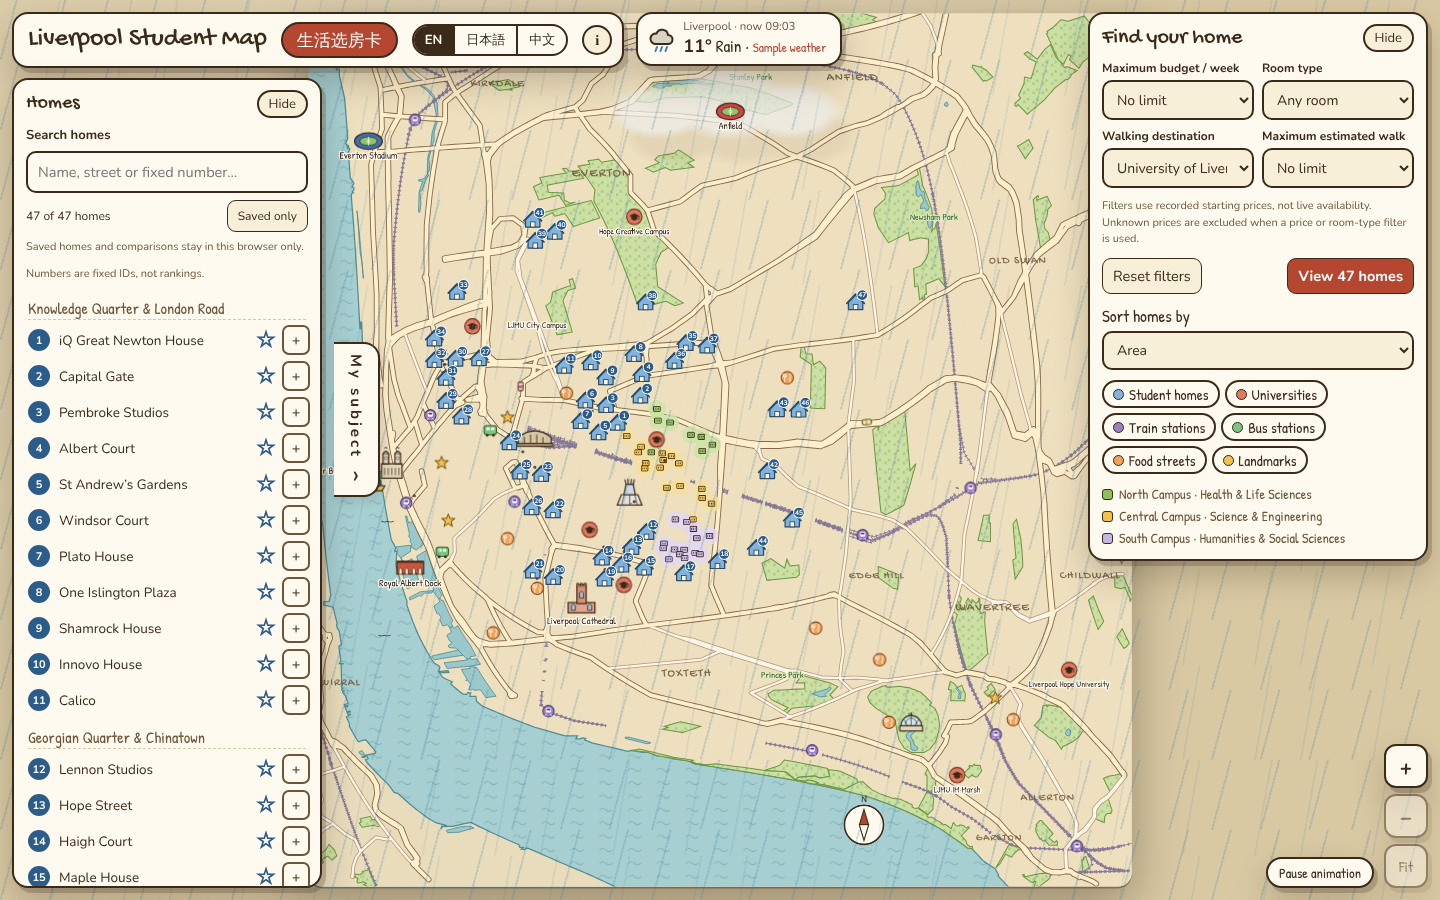
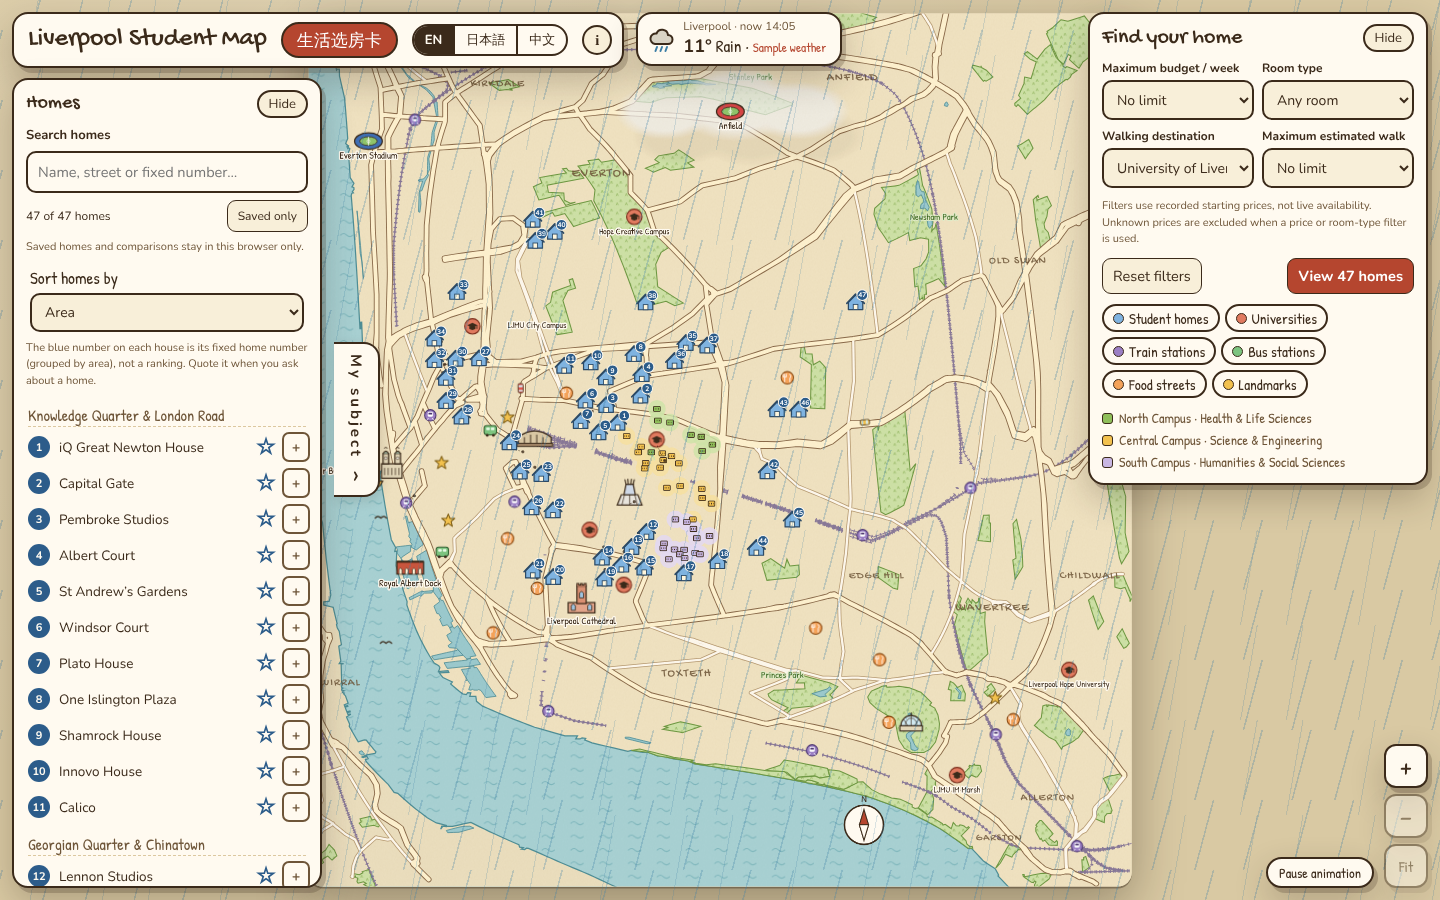
Refresh guide screenshots: compare, sorting, iPad and iPhone Duo
Claude-Session: https://claude.ai/code/session_016rLbkgUbc7FiiCcPmh6SN9

diff --git a/GUIDE-EN.html b/GUIDE-EN.html
@@ -29,7 +29,7 @@ figure img { width: 100%; height: 200px; object-fit: cover; object-position: top
 figcaption { font-size: 13px; color: var(--soft); }
 </style></head><body><main>
 <h1>Liverpool Student Map: Product and Demo Guide</h1>
-<p>Version: 22 October 2026 · Branch <code>claude/serene-faraday-1ktbef</code></p>
+<p>Version: 22 October 2026 (updated: compare, sorting, iPad and iPhone Duo) · Branch <code>claude/serene-faraday-1ktbef</code></p>
 <p>Liverpool Student Map helps students from Singapore, China and Japan choose student housing in Liverpool before they arrive. The website shows 47 student homes on a hand-drawn map. When a student wants help, one tap puts them in touch with a booking expert team through a WhatsApp group (Singapore and English speakers) or a WeChat group (China).</p>
 <p>The product does three jobs only:</p>
 <ol>
@@ -549,6 +549,18 @@ node web-original/consult-server/server.js
 <td><code>16-two-sided-walkthrough.png</code></td>
 <td>Student site and expert console side by side</td>
 </tr>
+<tr>
+<td><code>17-sorted-by-price.png</code></td>
+<td>Home list sorted by price, with gold top-3 tags on the map</td>
+</tr>
+<tr>
+<td><code>18-ipad-landscape.png</code>, <code>19-ipad-portrait.png</code></td>
+<td>iPad in landscape (filters folded) and portrait (drawers)</td>
+</tr>
+<tr>
+<td><code>20-iphone-duo-inner.png</code>, <code>21-iphone-duo-split-view.png</code></td>
+<td>iPhone Duo inner screen and Split View</td>
+</tr>
 </tbody>
 </table>
 <p>The screenshots in sections 5 and 7 come from real-mode runs, with the student on a phone and the expert on a laptop.</p>
@@ -573,5 +585,10 @@ node web-original/consult-server/server.js
 <figure><a href="docs/screenshots/13b-share-card-image.png"><img src="docs/screenshots/13b-share-card-image.png" alt="Share card maker and the image it makes" loading="lazy"></a><figcaption><code>13b-share-card-image.png</code> Share card maker and the image it makes</figcaption></figure>
 <figure><a href="docs/screenshots/14-weather.png"><img src="docs/screenshots/14-weather.png" alt="Live Liverpool weather (sample in screenshots)" loading="lazy"></a><figcaption><code>14-weather.png</code> Live Liverpool weather (sample in screenshots)</figcaption></figure>
 <figure><a href="docs/screenshots/15-personality-quiz.png"><img src="docs/screenshots/15-personality-quiz.png" alt="Study-buddy personality quiz" loading="lazy"></a><figcaption><code>15-personality-quiz.png</code> Study-buddy personality quiz</figcaption></figure>
-<figure><a href="docs/screenshots/16-two-sided-walkthrough.png"><img src="docs/screenshots/16-two-sided-walkthrough.png" alt="Student site and expert console side by side" loading="lazy"></a><figcaption><code>16-two-sided-walkthrough.png</code> Student site and expert console side by side</figcaption></figure></div>
+<figure><a href="docs/screenshots/16-two-sided-walkthrough.png"><img src="docs/screenshots/16-two-sided-walkthrough.png" alt="Student site and expert console side by side" loading="lazy"></a><figcaption><code>16-two-sided-walkthrough.png</code> Student site and expert console side by side</figcaption></figure>
+<figure><a href="docs/screenshots/17-sorted-by-price.png"><img src="docs/screenshots/17-sorted-by-price.png" alt="Home list sorted by price, with gold top-3 tags on the map" loading="lazy"></a><figcaption><code>17-sorted-by-price.png</code> Home list sorted by price, with gold top-3 tags on the map</figcaption></figure>
+<figure><a href="docs/screenshots/18-ipad-landscape.png"><img src="docs/screenshots/18-ipad-landscape.png" alt="iPad in landscape (filters folded) and portrait (drawers)" loading="lazy"></a><figcaption><code>18-ipad-landscape.png</code> iPad in landscape (filters folded) and portrait (drawers)</figcaption></figure>
+<figure><a href="docs/screenshots/19-ipad-portrait.png"><img src="docs/screenshots/19-ipad-portrait.png" alt="iPad in landscape (filters folded) and portrait (drawers)" loading="lazy"></a><figcaption><code>19-ipad-portrait.png</code> iPad in landscape (filters folded) and portrait (drawers)</figcaption></figure>
+<figure><a href="docs/screenshots/20-iphone-duo-inner.png"><img src="docs/screenshots/20-iphone-duo-inner.png" alt="iPhone Duo inner screen and Split View" loading="lazy"></a><figcaption><code>20-iphone-duo-inner.png</code> iPhone Duo inner screen and Split View</figcaption></figure>
+<figure><a href="docs/screenshots/21-iphone-duo-split-view.png"><img src="docs/screenshots/21-iphone-duo-split-view.png" alt="iPhone Duo inner screen and Split View" loading="lazy"></a><figcaption><code>21-iphone-duo-split-view.png</code> iPhone Duo inner screen and Split View</figcaption></figure></div>
 </main></body></html>

diff --git a/GUIDE-EN.md b/GUIDE-EN.md
@@ -1,6 +1,6 @@
 # Liverpool Student Map: Product and Demo Guide
 
-Version: 22 October 2026 · Branch `claude/serene-faraday-1ktbef`
+Version: 22 October 2026 (updated: compare, sorting, iPad and iPhone Duo) · Branch `claude/serene-faraday-1ktbef`
 
 Liverpool Student Map helps students from Singapore, China and Japan choose student housing in Liverpool before they arrive. The website shows 47 student homes on a hand-drawn map. When a student wants help, one tap puts them in touch with a booking expert team through a WhatsApp group (Singapore and English speakers) or a WeChat group (China).
 
@@ -265,5 +265,8 @@ Sources: listings and photos from our partner AmberStudent (collected 21 October
 | `14-weather.png` | Live Liverpool weather (sample in screenshots) |
 | `15-personality-quiz.png` | Study-buddy personality quiz |
 | `16-two-sided-walkthrough.png` | Student site and expert console side by side |
+| `17-sorted-by-price.png` | Home list sorted by price, with gold top-3 tags on the map |
+| `18-ipad-landscape.png`, `19-ipad-portrait.png` | iPad in landscape (filters folded) and portrait (drawers) |
+| `20-iphone-duo-inner.png`, `21-iphone-duo-split-view.png` | iPhone Duo inner screen and Split View |
 
 The screenshots in sections 5 and 7 come from real-mode runs, with the student on a phone and the expert on a laptop.
